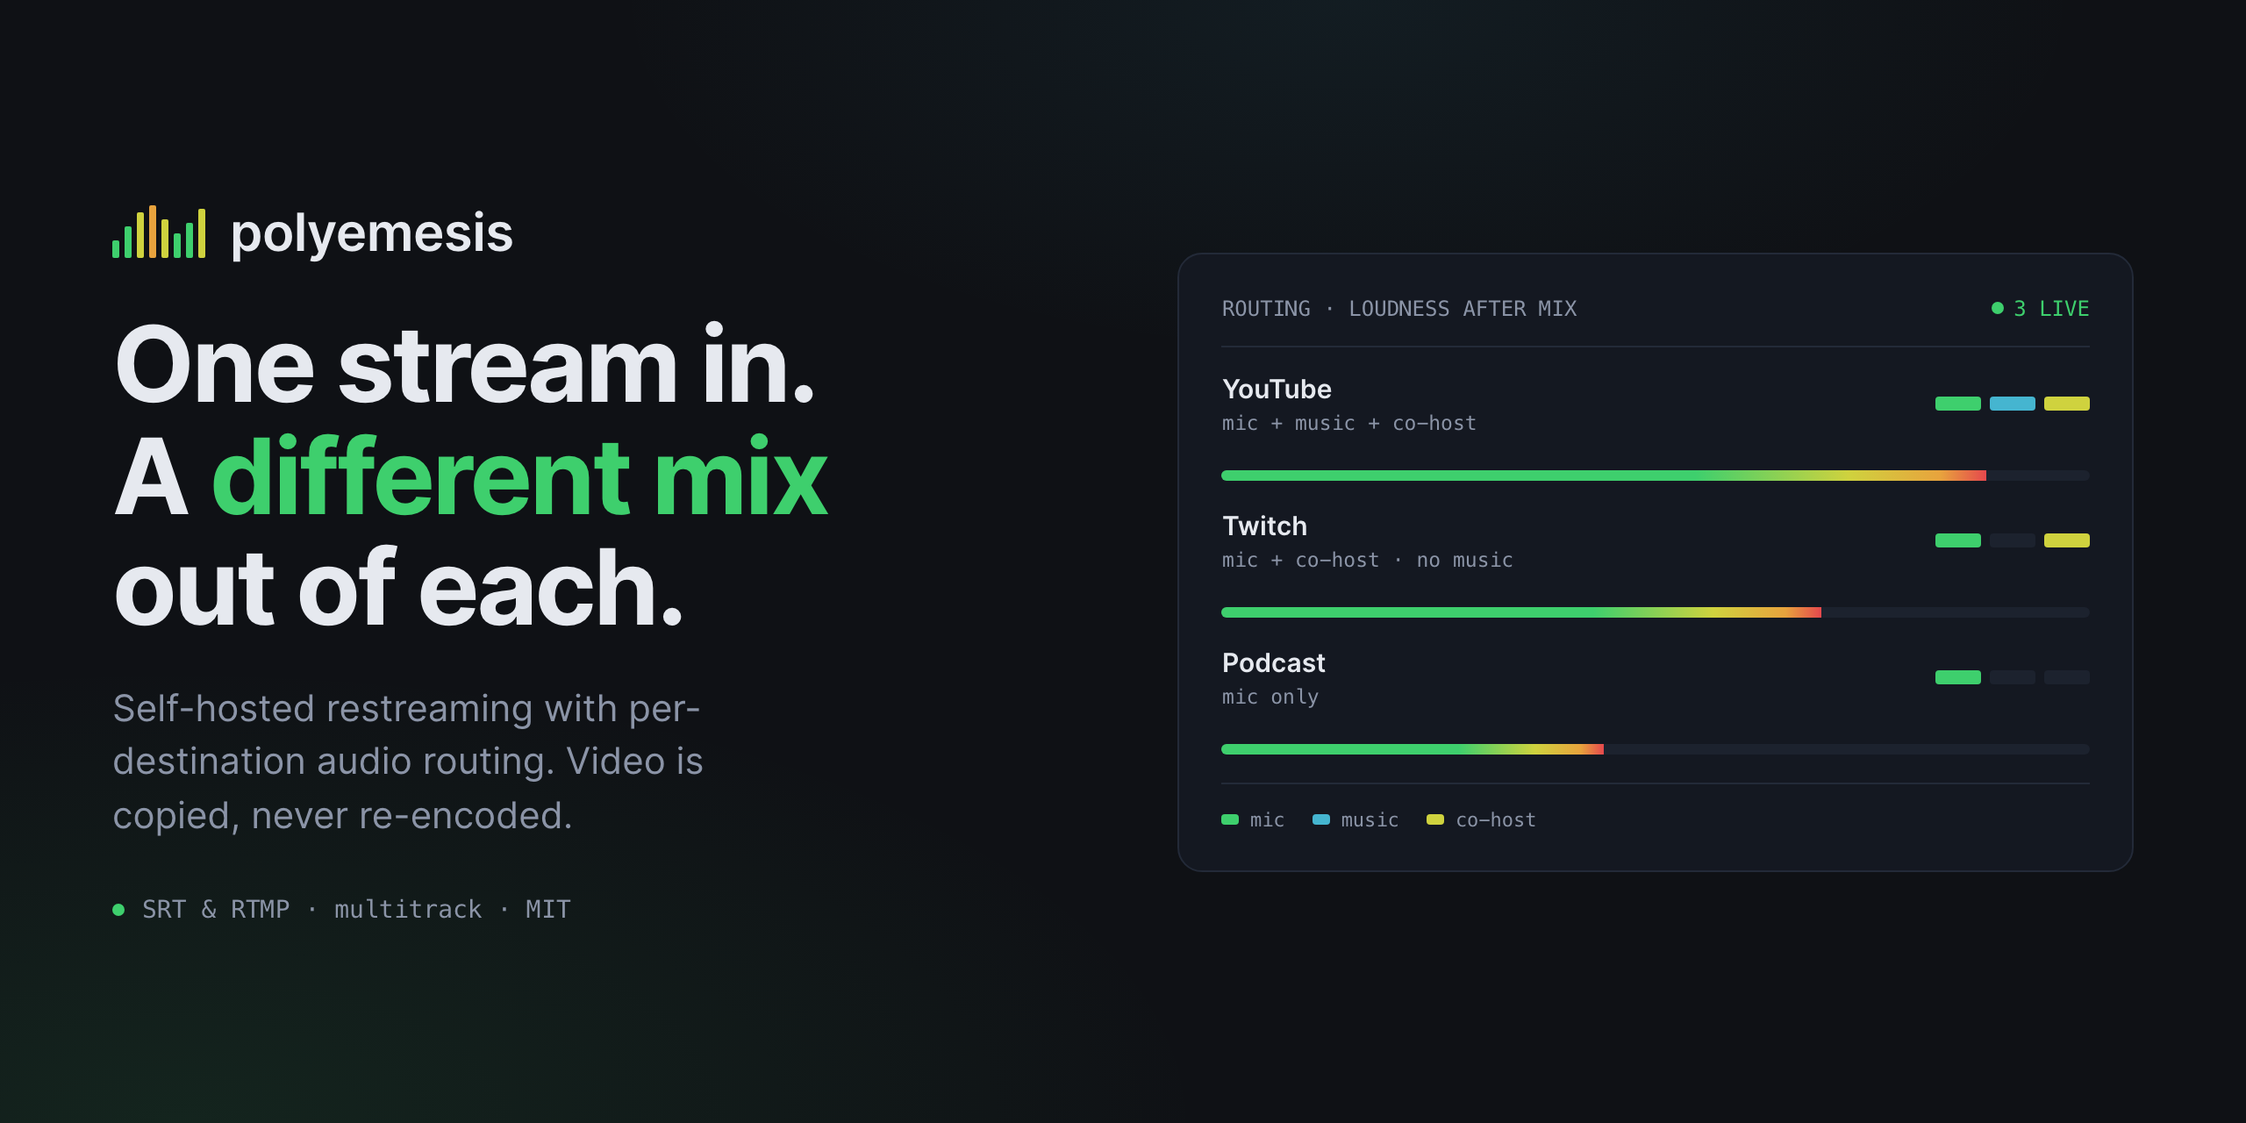
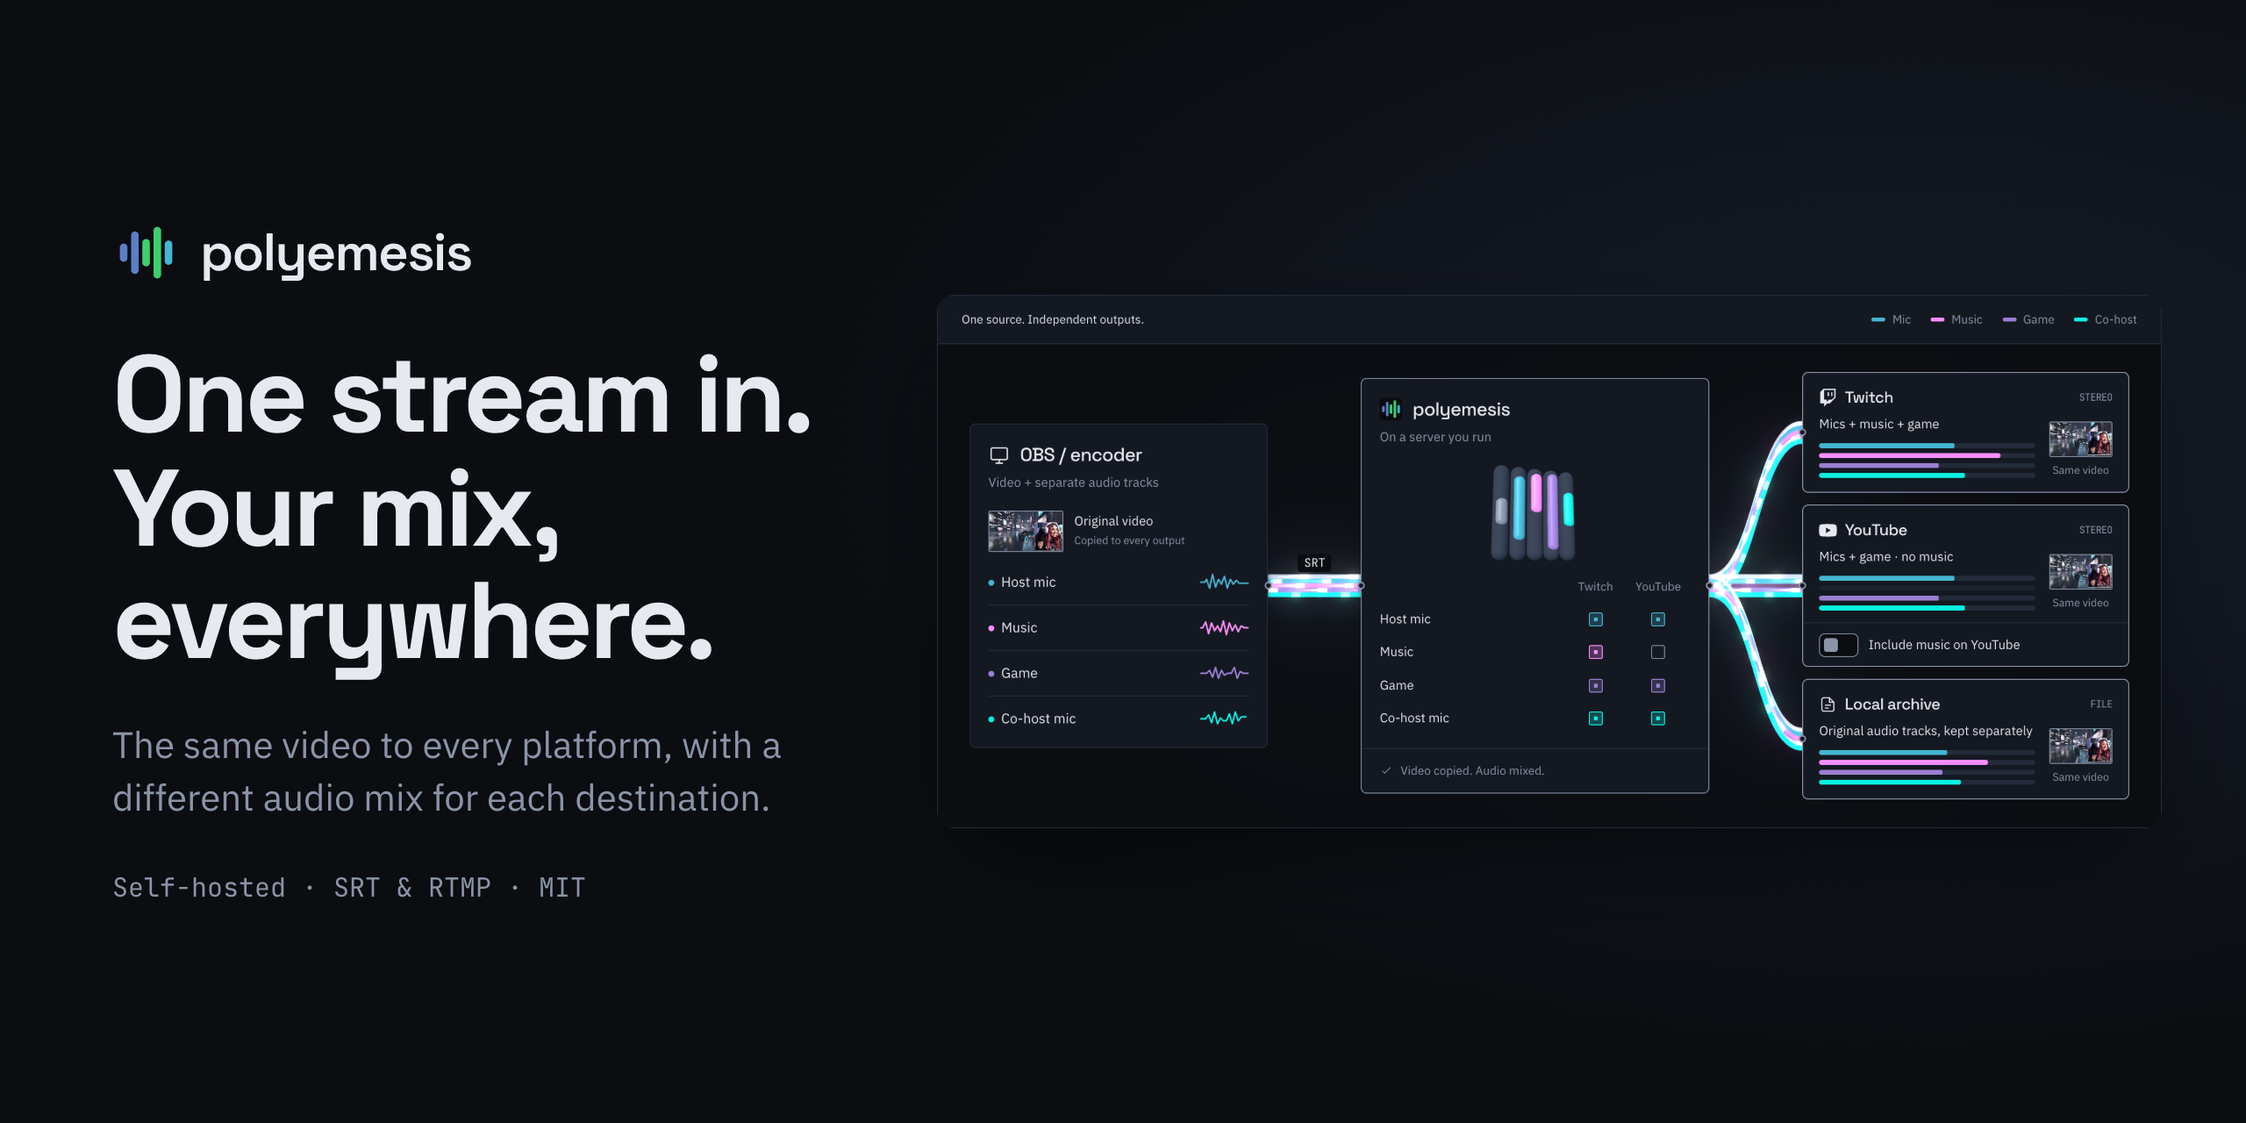
site: video lane back to its light grey, a fourth track (co-host mic) in the hero, new og.png
- Video lane: restore the prototype's #c3cada (as oklch, so no hex) for the
  legend key, the SVG fallback wires and the Three.js wires. The switch to
  --muted-foreground was not asked for.
- Fourth track: the patchbay below carries Host mic, Co-host mic, Music bed and
  Room; the hero showed three. Co-host mic is now a fifth lane on every bus
  (appended after game), a source row, a matrix row, a fourth meter on each
  card and the fifth fader (it replaces the right-hand spare), in the WebGL
  scene, the SVG fallback, the no-JS markup and the reduced-motion frame.
  Mixes follow the patchbay presets: Twitch and the archive take all four,
  YouTube everything but the music. Lane count and the music lane are now
  derived from LANES / MUSIC_LANE instead of hard-coded 4 and 2; the phone
  bus spacing is a shared CLUSTER_SHIFT (26px).
- Colour: new token --color-second-voice, oklch(86% 0.15 186), chosen by
  maximin ΔEOK. --color-cohost is not used because the hero already draws
  music in that magenta.
- og.png: the new headline beside the settled hero, still 2560x1280.
- Legend wraps below 420px so four chips fit a 320px phone (codex review).

Claude-Session: https://claude.ai/code/session_016Mn1KjjUD4CwGFdwYj55F2

diff --git a/web/src/scripts/signal-path/controller.js b/web/src/scripts/signal-path/controller.js
@@ -1,4 +1,4 @@
-import {buildRoutes,LANES} from './routes';
+import {buildRoutes,LANES,MUSIC_LANE,CLUSTER_SHIFT} from './routes';
 import {readPalette} from './palette';
 
 const root=document.querySelector('[data-signal-path]');
@@ -20,15 +20,16 @@ const state={elapsed:motion.matches?duration:0,includeMusic:false,reduced:motion
 let scene=null,faders=null,running=false,paused=false,hasStarted=motion.matches,inView=false,frameId=0,lastTime=0,lastPaint=0,currentChapter=-1;
 let traceElapsed=-1,traceRestore=null,traceComplete=false,hoverDest=null,focusDest=null,lastPreview='hover',settled=false,layout=null;
 const narration=[
-  ['One upload.','Video, microphone, music and game audio travel together.'],
+  ['One upload.','Video, two mics, music and game audio travel together.'],
   ['Choose what each platform hears.','Twitch gets the music. YouTube leaves it out.'],
   ['Same video. Different audio.','The archive keeps the original tracks for editing.']
 ];
 
-/* Live meters in the output cards. [mic, music, game] base levels per destination. */
-const meterBase={twitch:[.74,.86,.66],youtube:[.74,0,.66],archive:[.7,.8,.68]};
+/* Live meters in the output cards. [mic, music, game, co-host] base levels per destination, matching
+   the patchbay presets: every destination carries both mics and the game bed; only YouTube drops music. */
+const meterBase={twitch:[.74,.86,.66,.7],youtube:[.74,0,.66,.7],archive:[.7,.8,.68,.68]};
 const meters=[...root.querySelectorAll('.destination')].map(card=>({
-  dest:card.dataset.dest,bars:[...card.querySelectorAll('.meter')].map((el,i)=>({el,fill:el.firstElementChild,level:meterBase[card.dataset.dest][i],i}))
+  dest:card.dataset.dest,bars:[...card.querySelectorAll('.meter')].map((el,i)=>({el,fill:el.firstElementChild,level:meterBase[card.dataset.dest][i],i,switched:el.id==='sp-youtube-music'}))
 }));
 
 function makeSvgElement(tag,attributes) {
@@ -61,11 +62,11 @@ function refreshLayout() {
   /* SVG fallback wires: every lane in its identity colour, drawn behind the cards. */
   layout.routes.forEach(connection=>connection.lanes.forEach((lane,track)=>{
     const d='M'+lane.pts.map(([x,y])=>`${x.toFixed(1)} ${y.toFixed(1)}`).join(' L');
-    const off=connection.index===2&&track===2&&!state.includeMusic;
-    wires.append(makeSvgElement('path',{d,class:`wire ${LANES[track]}${off?' off':''}`,'data-music-lane':connection.index===2&&track===2?'1':'0'}));
+    const switched=connection.index===2&&track===MUSIC_LANE,off=switched&&!state.includeMusic;
+    wires.append(makeSvgElement('path',{d,class:`wire ${LANES[track]}${off?' off':''}`,'data-music-lane':switched?'1':'0'}));
   }));
   layout.connections.forEach(({start:a,end:b},i)=>{
-    const shift=layout.mobile?(i===1?-20:i===2?20:0):0;
+    const shift=layout.mobile?(i===1?-CLUSTER_SHIFT:i===2?CLUSTER_SHIFT:0):0;
     for(const p of [{x:a.x+shift,y:a.y},b])ports.append(makeSvgElement('circle',{cx:p.x,cy:p.y,r:3,class:'terminal'}));
   });
   const first=layout.connections[0];
@@ -122,7 +123,7 @@ function updateMeters(dt) {
   for(const card of meters){
     for(const bar of card.bars){
       let base=meterBase[card.dest][bar.i];
-      if(card.dest==='youtube'&&bar.i===1)base=state.includeMusic?.8:0;
+      if(bar.switched)base=state.includeMusic?.8:0;
       const wobble=state.reduced||base===0?1:.86+.14*Math.sin(t*(1.7+bar.i*.8)+bar.i*2.1)*Math.sin(t*(.9+bar.i*.3)+1.3)+.05*Math.sin(t*(5+bar.i));
       const target=base*wobble;
       const k=state.reduced?1:dt<=0?0:1-Math.exp(-dt/(base===0||target<bar.level-.2?220:90));
@@ -217,8 +218,8 @@ document.getElementById('sp-music-toggle').addEventListener('change',event=>{
   const restoreElapsed=traceRestore??state.elapsed;
   state.includeMusic=event.target.checked;state.traceEnabled=state.includeMusic;
   narration[1][1]=state.includeMusic?'YouTube includes music. Each output is controlled separately.':'Twitch gets the music. YouTube leaves it out.';
-  document.getElementById('sp-youtube-output').setAttribute('aria-label',state.includeMusic?'YouTube mix: mic, music and game':'YouTube mix: mic and game, no music');
-  document.getElementById('sp-youtube-mix').textContent=state.includeMusic?'Mic + music + game':'Mic + game · no music';
+  document.getElementById('sp-youtube-output').setAttribute('aria-label',state.includeMusic?'YouTube mix: both mics, music and game':'YouTube mix: both mics and game, no music');
+  document.getElementById('sp-youtube-mix').textContent=state.includeMusic?'Mics + music + game':'Mics + game · no music';
   document.getElementById('sp-youtube-music').classList.toggle('silent',!state.includeMusic);
   document.getElementById('sp-music-point').classList.toggle('off',!state.includeMusic);
   wires.querySelectorAll('[data-music-lane="1"]').forEach(path=>path.classList.toggle('off',!state.includeMusic));

diff --git a/web/src/scripts/signal-path/scene.js b/web/src/scripts/signal-path/scene.js
@@ -1,12 +1,13 @@
 import * as THREE from './vendor/three.js';
 import {Line2,LineGeometry,LineMaterial,EffectComposer,RenderPass,UnrealBloomPass} from './vendor/three-addons.js';
-import {buildRoutes,pointAtDistance} from './routes';
+import {buildRoutes,pointAtDistance,LANES,MUSIC_LANE} from './routes';
 
 /* Identity colours: video is neutral, tracks never borrow a status colour. */
-const WIRE_WIDTH=[2.6,2.6,2.6,2.6];
+const WIRE_WIDTH=LANES.map(()=>2.6);
 const BLOOM_STRENGTH=.16,BLOOM_THRESHOLD=.1,BLOOM_GAIN=.45,HEAD_LIFT=.15;
 const PACKETS_PER_LANE=3,TRAIL=6,TRAIL_STEP=4.2,SPEED=150;
-const MAX_INSTANCES=16*PACKETS_PER_LANE*(1+TRAIL)+16;
+/* 4 connections x every lane, plus the trace's 13 marks and a little headroom. */
+const MAX_INSTANCES=4*LANES.length*PACKETS_PER_LANE*(1+TRAIL)+16;
 const HEAD=[9,4.2],TAIL=[6,3];
 
 /**
@@ -15,8 +16,8 @@ const HEAD=[9,4.2],TAIL=[6,3];
  * fallback stay in HTML/SVG.
  */
 export function createSignalScene(host,palette){
-  /* Lane order matches LANES in routes.ts: video, mic, music, game. Colours come from the site's tokens. */
-  const LANE_COLORS=[palette.video,palette.mic,palette.music,palette.game];
+  /* Lane order matches LANES in routes.ts. Colours come from the site's tokens. */
+  const LANE_COLORS=LANES.map(name=>palette[name]);
   const renderer=new THREE.WebGLRenderer({alpha:true,antialias:true,powerPreference:'low-power'});
   const pixelRatio=Math.min(devicePixelRatio||1,2);
   renderer.setPixelRatio(pixelRatio);
@@ -119,15 +120,15 @@ export function createSignalScene(host,palette){
     let settled=true,n=0;
     const showTrace=moving&&traceProgress>=0&&traceProgress<=1;
     routes.forEach(route=>{
-      const enabled=!(route.index===2&&route.track===2)||includeMusic;
+      const enabled=!(route.index===2&&route.track===MUSIC_LANE)||includeMusic;
       const started=elapsed>=begins(route);
       const focus=stage===0?route.index===0:route.index>0?true:.55;
-      const traced=showTrace&&route.index===2&&route.track===2;
+      const traced=showTrace&&route.index===2&&route.track===MUSIC_LANE;
       const target=!started?(route.index===0?.5:.14):!enabled?(traced?.5:.1):focus===true?.92:stage===0?.3:.45;
       route.opacity=reduced?target:ease(route.opacity,target,dt);
       if(Math.abs(route.opacity-target)>.004)settled=false;
       route.material.opacity=Math.min(1,route.opacity+(traced?.25:0));
-      route.material.linewidth=(route.track===2&&route.index===2&&enabled&&started&&includeMusic?3.2:WIRE_WIDTH[route.track])*pixelRatio;
+      route.material.linewidth=(route.track===MUSIC_LANE&&route.index===2&&enabled&&started&&includeMusic?3.2:WIRE_WIDTH[route.track])*pixelRatio;
       if(!started||!enabled||n+PACKETS_PER_LANE*(1+TRAIL)>MAX_INSTANCES-15)return;
       const length=route.lane.length,period=Math.max(length+40,150),flowPx=(flow||0)*.001*SPEED;
       const bright=route.index===0||focus===true?1:.6;
@@ -144,7 +145,7 @@ export function createSignalScene(host,palette){
       }
     });
     if(showTrace){
-      const route=routes.find(r=>r.index===2&&r.track===2);
+      const route=routes.find(r=>r.index===2&&r.track===MUSIC_LANE);
       if(route){
         const d=(traceEnabled?traceProgress:Math.min(traceProgress,.14))*route.lane.length;
         for(let t=0;t<=12;t++){
@@ -153,7 +154,7 @@ export function createSignalScene(host,palette){
           pointAtDistance(route.lane,dd,tmp,tan);
           const fade=t===0?1:Math.pow(1-t/13,1.5)*.8;
           const fadeOut=traceEnabled?1:Math.max(0,1-Math.max(0,traceProgress-.08)*14);
-          place(n++,tmp[0],tmp[1],Math.atan2(-tan[1],tan[0]),(t===0?14:10)*(1-t*.04),(t===0?6.4:4.4)*(1-t*.05),t===0?lift[2]:laneColors[2],fade*fadeOut*1.25);
+          place(n++,tmp[0],tmp[1],Math.atan2(-tan[1],tan[0]),(t===0?14:10)*(1-t*.04),(t===0?6.4:4.4)*(1-t*.05),t===0?lift[MUSIC_LANE]:laneColors[MUSIC_LANE],fade*fadeOut*1.25);
         }
       }
     }

diff --git a/web/src/scripts/signal-path/routes.ts b/web/src/scripts/signal-path/routes.ts
@@ -1,7 +1,12 @@
 /** Wire geometry shared by the WebGL layer and the SVG fallback. Pure functions, no DOM. */
 export const LANE_GAP=4.5;
-export const LANES=['video','mic','music','game'] as const;
-const CLUSTER_SHIFT=20;
+/* Lane order on the bus. Co-host is appended last so it sits beside game, not beside the mic cyan. */
+export const LANES=['video','mic','music','game','cohost'] as const;
+/** Index of the music lane: the one the YouTube switch turns on and off. */
+export const MUSIC_LANE=LANES.indexOf('music');
+/** On phones, how far left/right of centre the Twitch and YouTube buses leave the router. Wide
+ *  enough that three five-lane buses side by side keep a visible gap. */
+export const CLUSTER_SHIFT=26;
 
 export type Point=[number,number];
 export interface Lane{pts:Point[];cum:number[];length:number}
@@ -55,7 +60,7 @@ export function pointAtDistance(lane:Lane,d:number,out:number[],tan?:number[]):n
 }
 
 /**
- * Four lanes (video, mic, music, game) per connection.
+ * One lane per entry in LANES (video, mic, music, game, co-host) per connection.
  * Desktop: horizontal S-curves. Phone/tablet: vertical bus with rounded corners. The Twitch and
  * YouTube routes leave the router left and right of centre and the archive route drops straight
  * down the gutter between those two cards, so no route ever crosses a card.
@@ -64,8 +69,9 @@ export function buildRoutes(layout:{connections:Connection[]}):Route[]{
   return layout.connections.map((connection,index)=>{
     const {start:a,end:b}=connection;
     const lanes:Lane[]=[];
-    for(let k=0;k<4;k++){
-      const o=(k-1.5)*LANE_GAP;
+    const count=LANES.length,mid=(count-1)/2;
+    for(let k=0;k<count;k++){
+      const o=(k-mid)*LANE_GAP;
       let pts:Point[];
       if(!connection.vertical){
         const dx=(b.x-a.x)*.5;
@@ -74,7 +80,7 @@ export function buildRoutes(layout:{connections:Connection[]}):Route[]{
         const cluster=index===1?-1:index===2?1:0;
         const sx=a.x+cluster*CLUSTER_SHIFT+o,ex=b.x+o;
         const gap=b.y-a.y;
-        const ym=cluster===0?a.y+gap/2:a.y+Math.min(gap*.34,22)+(cluster<0?k:3-k)*Math.min(6,gap*.09);
+        const ym=cluster===0?a.y+gap/2:a.y+Math.min(gap*.34,22)+(cluster<0?k:count-1-k)*Math.min(6,gap*.09);
         pts=roundedPolyline([[sx,a.y],[sx,ym],[ex,ym],[ex,b.y]],6);
       }
       lanes.push(finish(pts));

diff --git a/web/src/scripts/signal-path/routes.test.ts b/web/src/scripts/signal-path/routes.test.ts
@@ -1,6 +1,6 @@
 import { describe, expect, it } from "vitest";
 
-import { buildRoutes, LANES, LANE_GAP, pointAtDistance, type Connection } from "./routes";
+import { buildRoutes, LANES, LANE_GAP, MUSIC_LANE, pointAtDistance, type Connection } from "./routes";
 import { cssColorToHex } from "./palette";
 
 /* The wire geometry is pure, so it is tested directly: the WebGL layer and the
@@ -20,19 +20,21 @@ const vertical: Connection[] = horizontal.map((c, i) => ({
 }));
 
 describe("buildRoutes", () => {
-  it("draws four lanes (video, mic, music, game) per connection", () => {
-    expect(LANES).toEqual(["video", "mic", "music", "game"]);
+  it("draws five lanes (video, mic, music, game, co-host) per connection", () => {
+    /* Four audio tracks, matching the patchbay (src/data/tracks.mjs), plus the video. */
+    expect(LANES).toEqual(["video", "mic", "music", "game", "cohost"]);
+    expect(MUSIC_LANE).toBe(2);
     for (const layout of [horizontal, vertical]) {
       const routes = buildRoutes({ connections: layout });
       expect(routes.map((r) => r.index)).toEqual([0, 1, 2, 3]);
-      for (const r of routes) expect(r.lanes).toHaveLength(4);
+      for (const r of routes) expect(r.lanes).toHaveLength(5);
     }
   });
 
   it("starts and ends each lane on its port, offset by the lane gap", () => {
     const [first] = buildRoutes({ connections: horizontal });
     first.lanes.forEach((lane, k) => {
-      const offset = (k - 1.5) * LANE_GAP;
+      const offset = (k - 2) * LANE_GAP;
       expect(lane.pts[0][0]).toBeCloseTo(0);
       expect(lane.pts[0][1]).toBeCloseTo(100 + offset);
       expect(lane.pts.at(-1)![0]).toBeCloseTo(100);

diff --git a/web/src/scripts/signal-path/faders.js b/web/src/scripts/signal-path/faders.js
@@ -5,21 +5,23 @@ import * as THREE from './vendor/three.js';
  * Bar geometry is taken straight from the favicon: x, width 2.5, height, fully rounded ends (rx 1.25).
  * Each bar becomes a capsule cap sliding in a dark groove. At rest the caps sit on the mark's own
  * centre line, so the silhouette reads as the logo.
- * Channels: [spare, Mic, Music, Game, spare]. Spare channels hold a neutral mid position that shifts slightly with each mix.
+ * Channels: [spare, Mic, Music, Game, Co-host], the bus order of LANES after video. The spare channel
+ * holds a neutral mid position that shifts slightly with each mix. Every mix agrees with the patchbay
+ * preset for that destination (MixMatrix.astro): only YouTube drops a track, the music.
  */
 const BARS=[[2.5,6],[6.2,14],[9.9,9],[13.6,17],[17.3,8]];
 const GROOVE=20;
 
 const MIXES={
   rest:[.5,.5,.5,.5,.5],
-  twitch:[.5,.62,.92,.68,.5],
-  youtube:[.46,.62,.06,.68,.5],
-  youtubeMusic:[.5,.62,.8,.68,.5],
-  archive:[.5,.7,.82,.7,.5]
+  twitch:[.5,.62,.92,.68,.6],
+  youtube:[.46,.62,.06,.68,.6],
+  youtubeMusic:[.5,.62,.8,.68,.6],
+  archive:[.5,.7,.82,.7,.7]
 };
 
 export function createFaders(host,palette){
-  const COLORS=[palette.spareA,palette.mic,palette.music,palette.game,palette.spareB];
+  const COLORS=[palette.spareA,palette.mic,palette.music,palette.game,palette.cohost];
   const renderer=new THREE.WebGLRenderer({alpha:true,antialias:true,powerPreference:'low-power'});
   renderer.setPixelRatio(Math.min(devicePixelRatio||1,2));
   renderer.setClearColor(0x000000,0);

diff --git a/web/src/scripts/signal-path/palette.ts b/web/src/scripts/signal-path/palette.ts
@@ -2,7 +2,7 @@
  *
  * The wires, packets and faders draw in RGB, but the colours are defined once, as tokens, in
  * tokens.css and global.css (--color-meter for the mic, --color-cohost for music, --color-game for
- * game). Reading them at runtime keeps one palette: a token change reaches the canvas without a
+ * game, --color-second-voice for the co-host mic). Reading them at runtime keeps one palette: a token change reaches the canvas without a
  * second list of hex values to forget. The tokens are oklch(); a 1x1 canvas converts any CSS colour
  * the browser understands to sRGB bytes, which is what Three.js wants.
  *
@@ -13,8 +13,8 @@ export interface Palette {
   mic: number;
   music: number;
   game: number;
+  cohost: number;
   spareA: number;
-  spareB: number;
   groove: number;
 }
 
@@ -23,8 +23,8 @@ const SOURCES: Record<keyof Palette, [string, number]> = {
   mic: ["--sp-mic", 0x45b5d0],
   music: ["--sp-music", 0xe879f9],
   game: ["--sp-game", 0x9b8cff],
+  cohost: ["--sp-cohost", 0x0bf0e0],
   spareA: ["--sp-spare-a", 0x7d8798],
-  spareB: ["--sp-spare-b", 0xaab3c5],
   groove: ["--sp-groove", 0x2c3444],
 };
 

diff --git a/web/src/styles/global.css b/web/src/styles/global.css
@@ -180,6 +180,18 @@
   --color-meter: var(--cat-cyan);
   --color-cohost: oklch(80.0% 0.1900 328.0);
   --color-game: oklch(65.7% 0.1262 298.0);
+  /* The second voice: the patchbay's track 2, Co-host mic, as the hero's
+     signal path draws it. Not --color-cohost: despite its name, that magenta
+     is the hero's Music lane (the hero predates the four-track layout), and
+     a co-host lane in the same magenta would be one colour on two tracks.
+     Chosen like --color-cohost was, by maximising its smallest ΔEOK to every
+     signal, meter, track and wire colour in the hero, over L 60-90 with at
+     least 3:1 on a card (a wire, not text) and away from the status hues:
+     0.150 to --color-ok and to the video lane (the nearest), 0.160 to the
+     mic cyan, 0.19 to --meter-mid. 12.3:1 against a card. That is below
+     the 0.18 --color-cohost got; the free hues left on this page are teal or
+     olive, and olive sits between the ok green and the warn amber. */
+  --color-second-voice: oklch(86.0% 0.1500 186.0);
 
   --radius-token: 0.5rem;
 

diff --git a/web/src/lib/home-copy.test.ts b/web/src/lib/home-copy.test.ts
@@ -186,7 +186,7 @@ describe("the home hero (S1)", () => {
     expect(from).toBeGreaterThan(-1);
     expect(to).toBeGreaterThan(from);
     const markup = sp.slice(from, to);
-    for (const text of ["Twitch", "YouTube", "Local archive", "Mic + music + game", "Mic + game · no music", "Original audio tracks, kept separately"]) {
+    for (const text of ["Twitch", "YouTube", "Local archive", "Mics + music + game", "Mics + game · no music", "Original audio tracks, kept separately"]) {
       expect(markup, text).toContain(text);
     }
   });
